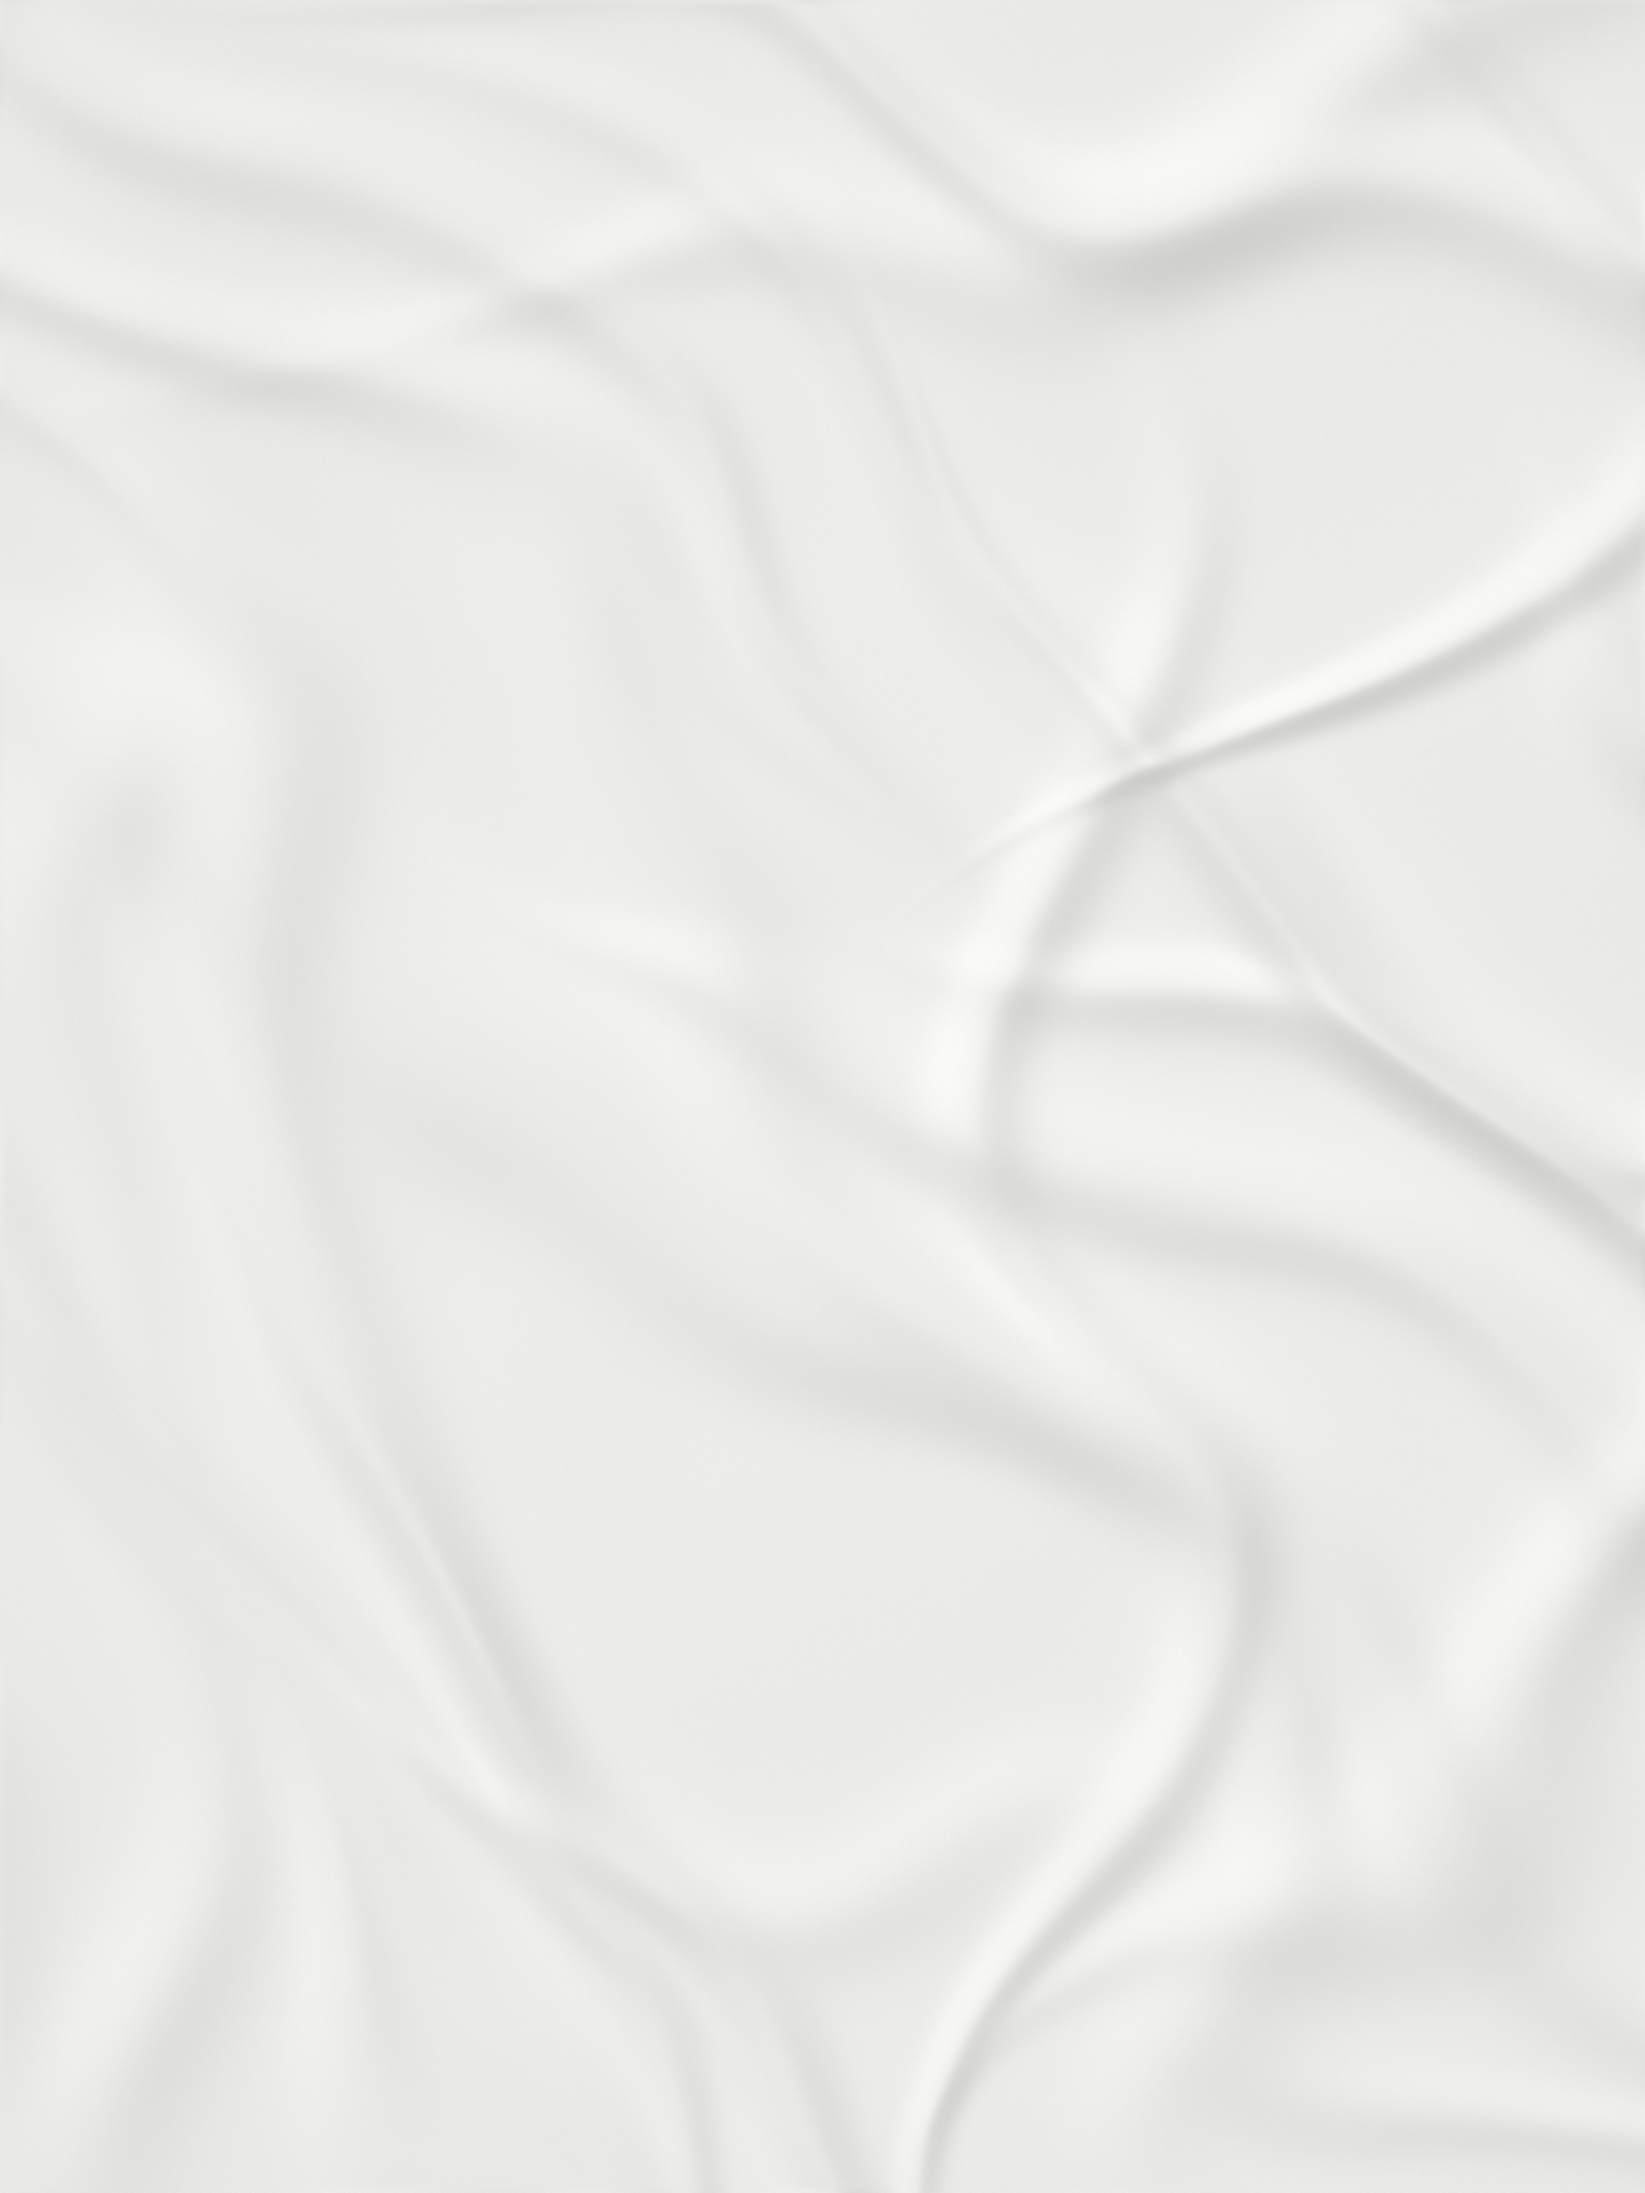
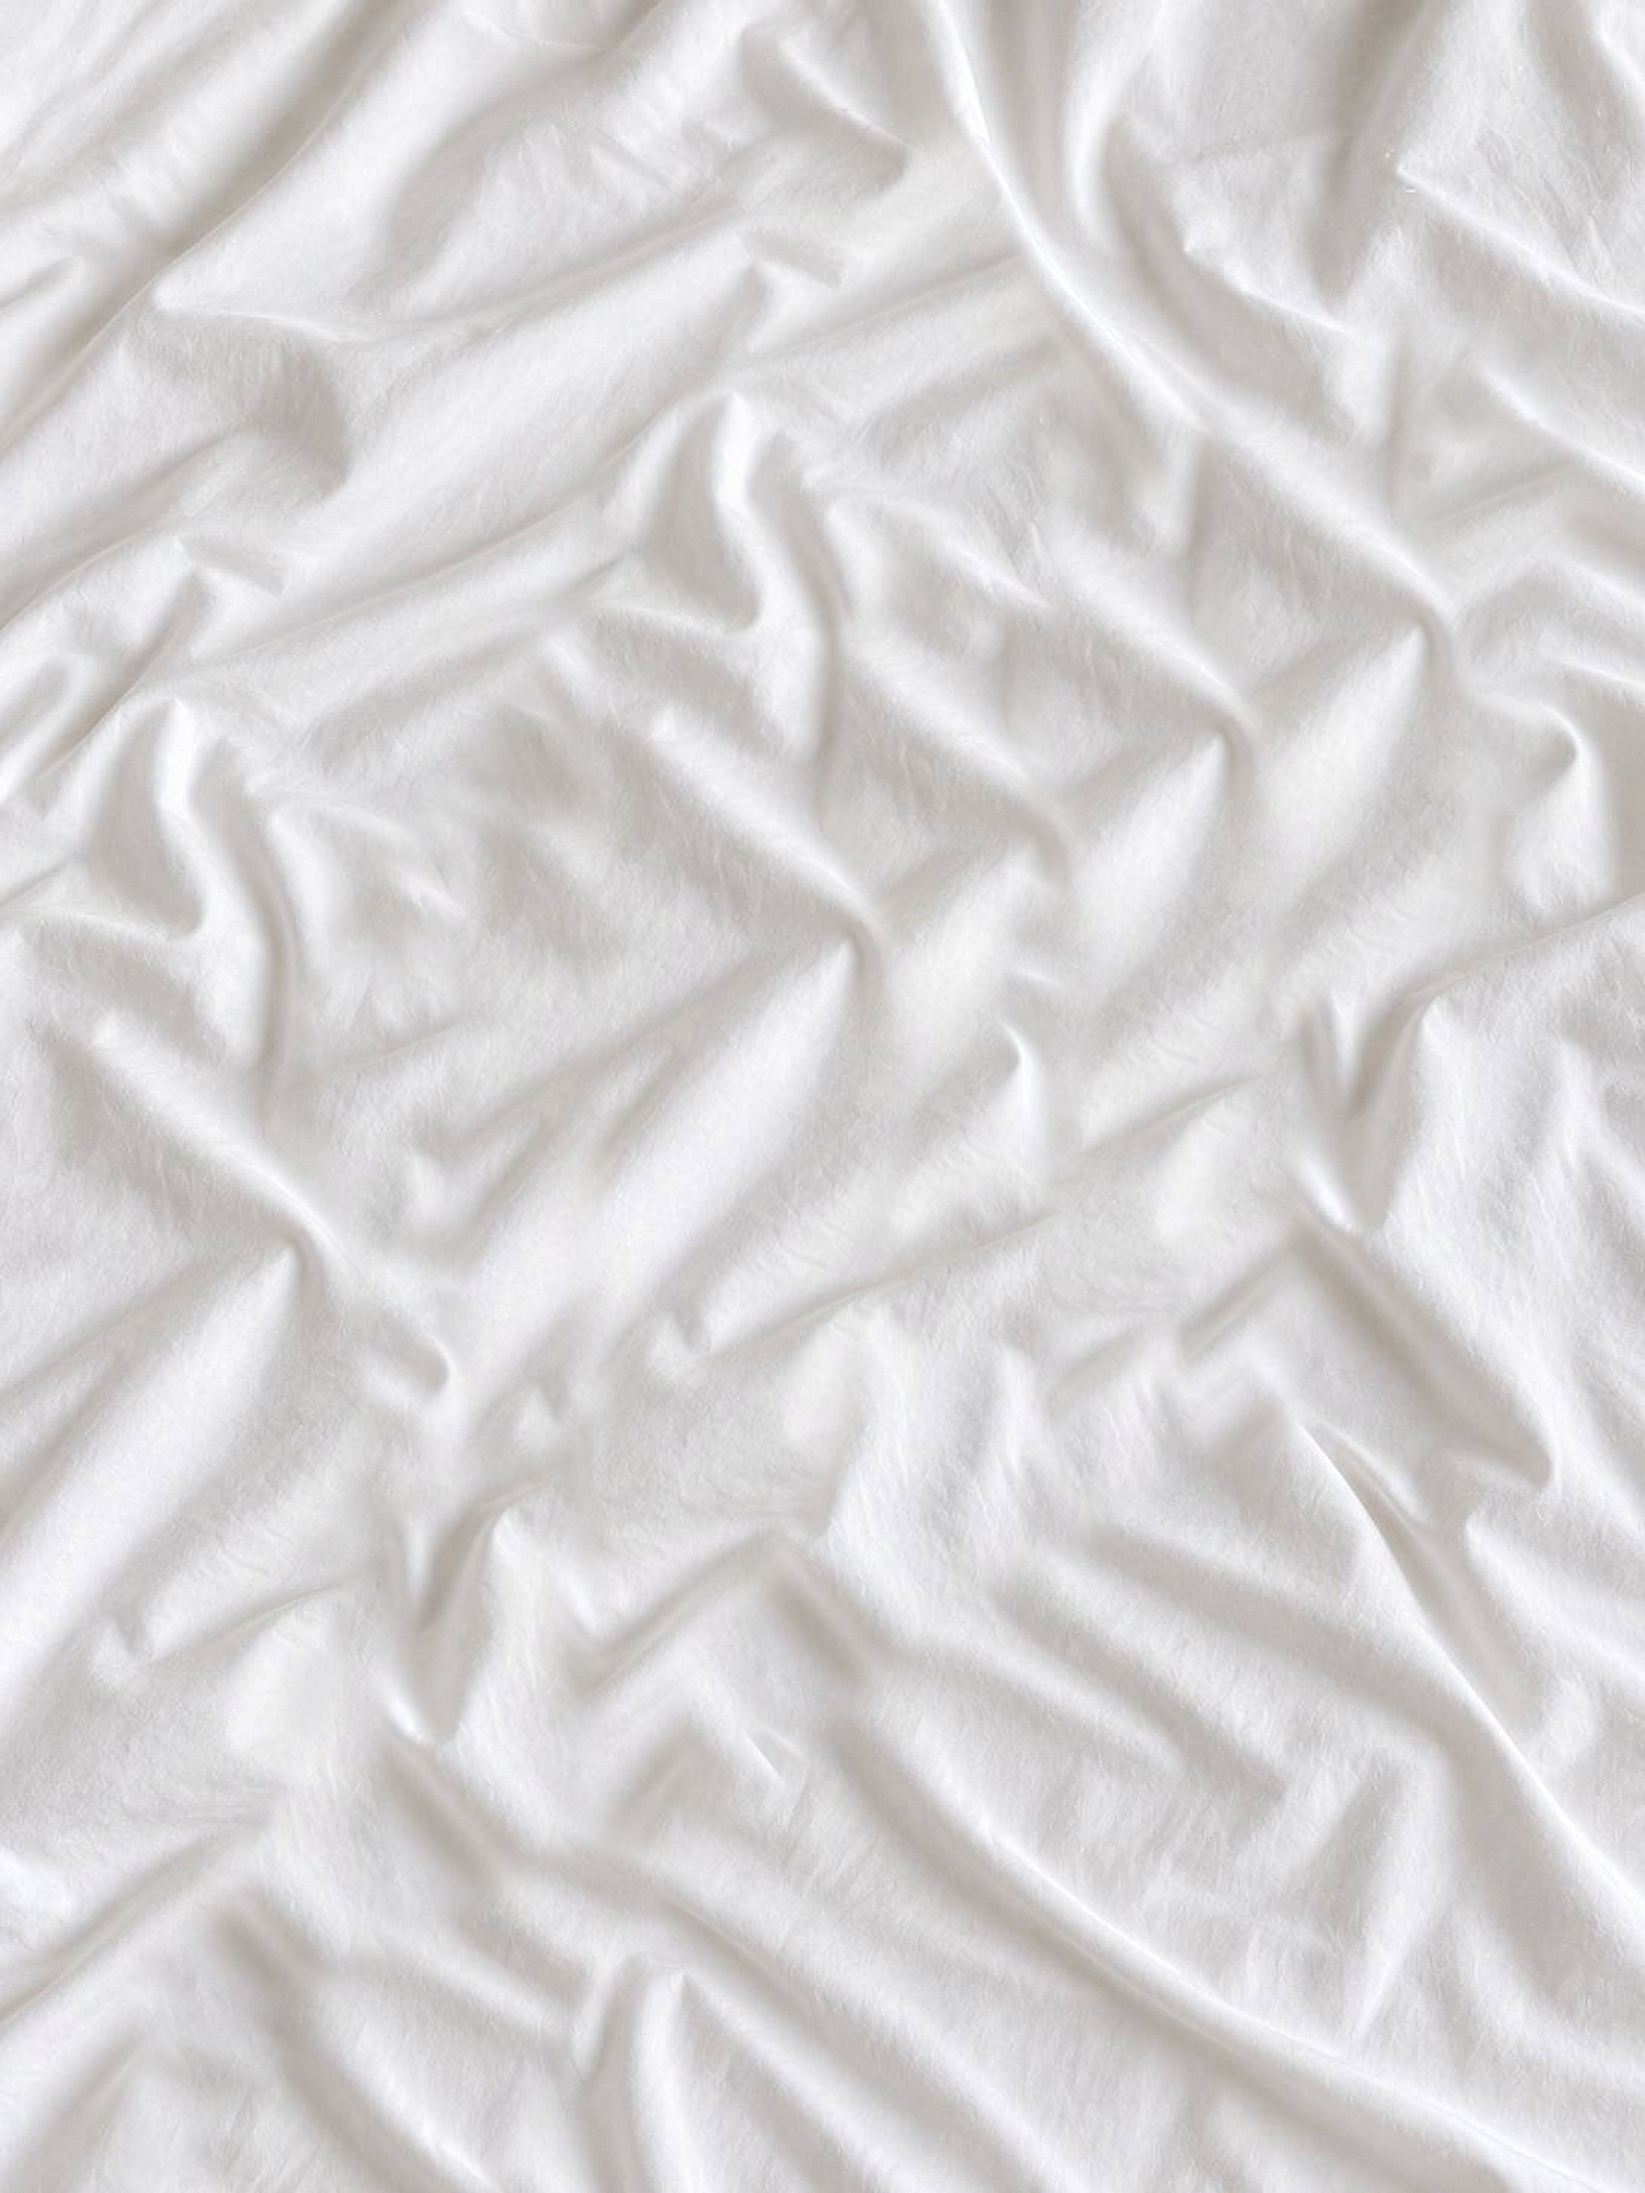
Pegar fotos con Ctrl+V

diff --git a/index.html b/index.html
@@ -50,7 +50,7 @@
 <main>
   <label id="drop">
     <svg viewBox="0 0 24 24" fill="none" stroke-width="1.5" stroke-linecap="round" stroke-linejoin="round"><path d="M12 16V4m0 0-4 4m4-4 4 4M4 16v2a2 2 0 0 0 2 2h12a2 2 0 0 0 2-2v-2"/></svg>
-    <strong>Arrastrá las fotos acá o hacé click</strong>
+    <strong>Arrastrá las fotos acá, hacé click o pegalas con Ctrl+V</strong>
     <span>JPG, PNG o WEBP · todas las que quieras</span>
     <input id="file" type="file" accept="image/*" multiple hidden>
   </label>
@@ -88,6 +88,17 @@ input.onchange = e => { addFiles(e.target.files); input.value = ''; };
 ['dragenter','dragover'].forEach(ev => drop.addEventListener(ev, e => { e.preventDefault(); drop.classList.add('over'); }));
 ['dragleave','drop'].forEach(ev => drop.addEventListener(ev, e => { e.preventDefault(); drop.classList.remove('over'); }));
 drop.addEventListener('drop', e => addFiles(e.dataTransfer.files));
+// Pegar imágenes con Ctrl+V (capturas, imágenes copiadas de WhatsApp, del navegador, etc.)
+document.addEventListener('paste', e => {
+  const files = [...(e.clipboardData?.items || [])]
+    .filter(it => it.kind === 'file' && it.type.startsWith('image/'))
+    .map((it, i) => {
+      const f = it.getAsFile();
+      const ext = (f.type.split('/')[1] || 'png').replace('jpeg', 'jpg');
+      return new File([f], f.name && f.name !== 'image.png' ? f.name : `pegada_${Date.now()}_${i}.${ext}`, { type: f.type });
+    });
+  if (files.length) { e.preventDefault(); addFiles(files); }
+});
 
 function addFiles(files){
   for (const f of files){
@@ -239,7 +250,7 @@ async function refineTransparency(file, fg){
     }
     return dst;
   };
-  bin = morph(morph(bin, 2, false), 2, true);
+  bin = morph(morph(bin, 1, false), 1, true);
   // flood fill del fondo desde los bordes: lo no alcanzado es la prenda (con huecos rellenos)
   const bgc = new Uint8Array(M), q = new Int32Array(M); let qh = 0, qt = 0;
   const push = j => { if (!bin[j] && !bgc[j]) { bgc[j] = 1; q[qt++] = j; } };
@@ -252,12 +263,61 @@ async function refineTransparency(file, fg){
   let region = new Uint8Array(M); for (let j = 0; j < M; j++) region[j] = bgc[j] ? 0 : 1;
   region = morph(region, 3, true);
 
+  // Quedarse solo con la prenda (componente principal), descartando objetos sueltos en los bordes
+  {
+    const lab = new Int32Array(M); let nl = 0; const areas = [0];
+    for (let j0 = 0; j0 < M; j0++) {
+      if (!region[j0] || lab[j0]) continue;
+      nl++; let a = 0; qh = qt = 0; q[qt++] = j0; lab[j0] = nl;
+      while (qh < qt) {
+        const j = q[qh++], xx = j % w; a++;
+        if (xx > 0 && region[j - 1] && !lab[j - 1]) { lab[j - 1] = nl; q[qt++] = j - 1; }
+        if (xx < w - 1 && region[j + 1] && !lab[j + 1]) { lab[j + 1] = nl; q[qt++] = j + 1; }
+        if (j >= w && region[j - w] && !lab[j - w]) { lab[j - w] = nl; q[qt++] = j - w; }
+        if (j < M - w && region[j + w] && !lab[j + w]) { lab[j + w] = nl; q[qt++] = j + w; }
+      }
+      areas.push(a);
+    }
+    const maxA = Math.max(...areas);
+    for (let j = 0; j < M; j++) if (region[j] && areas[lab[j]] < maxA * 0.15) region[j] = 0;
+  }
+
+  // Partes oscuras pegadas a la prenda (broches, elásticos negros): se conservan opacas
+  const lumB = 0.299 * B[0] + 0.587 * B[1] + 0.114 * B[2];
+  const darkThr = lumB * 0.85;
+  const lumS = j => 0.299 * S[j * 4] + 0.587 * S[j * 4 + 1] + 0.114 * S[j * 4 + 2];
+  let darkS = new Uint8Array(M);
+  const nearGarment = morph(region, 6, true);
+  for (let j = 0; j < M; j++) if (lumS(j) < lumB * 0.4) darkS[j] = 1;
+  darkS = morph(morph(darkS, 1, false), 1, true);       // quitar granitos del piso
+  { // descartar manchas oscuras chicas
+    const seen = new Uint8Array(M), minA = M * 0.0004;
+    for (let j0 = 0; j0 < M; j0++) {
+      if (!darkS[j0] || seen[j0]) continue;
+      qh = qt = 0; q[qt++] = j0; seen[j0] = 1;
+      while (qh < qt) {
+        const j = q[qh++], xx = j % w;
+        for (const nb of [xx > 0 ? j - 1 : -1, xx < w - 1 ? j + 1 : -1, j >= w ? j - w : -1, j < M - w ? j + w : -1])
+          if (nb >= 0 && darkS[nb] && !seen[nb]) { seen[nb] = 1; q[qt++] = nb; }
+      }
+      let touches = false; for (let t = 0; t < qt && !touches; t++) if (nearGarment[q[t]]) touches = true;
+      if (qt < minA || !touches) for (let t = 0; t < qt; t++) darkS[q[t]] = 0;
+    }
+  }
+  const darkGate = morph(darkS, 2, true);
+  for (let j = 0; j < M; j++) if (darkGate[j]) region[j] = 1;
+
   // 3) Escalar la región a tamaño completo (suavizada)
   const gi = sx.createImageData(w, h);
   for (let j = 0; j < M; j++) { gi.data[j * 4 + 3] = region[j] * 255; }
   sx.clearRect(0, 0, w, h); sx.putImageData(gi, 0, 0);
   x.clearRect(0, 0, W, H); x.imageSmoothingQuality = 'high'; x.drawImage(sc2, 0, 0, W, H);
   const G = x.getImageData(0, 0, W, H).data;
+  const dg = sx.createImageData(w, h);
+  for (let j = 0; j < M; j++) { dg.data[j * 4 + 3] = darkGate[j] * 255; }
+  sx.clearRect(0, 0, w, h); sx.putImageData(dg, 0, 0);
+  x.clearRect(0, 0, W, H); x.drawImage(sc2, 0, 0, W, H);
+  const DG = x.getImageData(0, 0, W, H).data;
 
   // 4) Umbrales de opacidad
   const hIn = new Uint32Array(443), hOut = new Uint32Array(443); let nIn = 0, nOut = 0;
@@ -271,16 +331,27 @@ async function refineTransparency(file, fg){
   const t0 = Math.max(t1 * 0.15, nOut ? pct(hOut, nOut, 0.97) : 0);
   t1 = Math.max(t1, t0 + 30);
 
-  // 5) Alfa final y "desmezcla" del color del fondo
+  // 5) Alfa final. Las partes opacas quedan con el píxel original intacto;
+  //    en los hilos semitransparentes solo se quita el fondo del brillo, conservando el tono original.
   for (let i = 0; i < N * 4; i += 4) {
     const g = G[i + 3] / 255;
-    if (!g) { P[i + 3] = 0; continue; }
     const r = O[i], gg = O[i + 1], b = O[i + 2];
+    const lum = 0.299 * r + 0.587 * gg + 0.114 * b;
+    const dgv = DG[i + 3] / 255;
+    if (dgv > 0) {                                   // broches / partes negras
+      const da = dgv * Math.min(1, Math.max(0, (darkThr - lum) / (darkThr - lumB * 0.45)));
+      if (da > 0) { P[i] = r; P[i + 1] = gg; P[i + 2] = b; P[i + 3] = 255 * da; continue; }
+    }
+    if (!g) { P[i + 3] = 0; continue; }
     const ca = Math.min(1, Math.max(0, (dist(r, gg, b) - t0) / (t1 - t0)));
     const ma = P[i + 3] / 255;
-    if (ca >= ma && ca > 0.004) {
-      P[i] = B[0] + (r - B[0]) / ca; P[i + 1] = B[1] + (gg - B[1]) / ca; P[i + 2] = B[2] + (b - B[2]) / ca;
-    } else { P[i] = r; P[i + 1] = gg; P[i + 2] = b; }
+    P[i] = r; P[i + 1] = gg; P[i + 2] = b;
+    if (ca < 0.999 && ca >= ma && ca > 0.004 && lum > 1) {
+      const lu = lumB + (lum - lumB) / ca;
+      let f = Math.max(1, lu / lum);
+      const mx = Math.max(r, gg, b) * f; if (mx > 255) f *= 255 / mx;
+      P[i] = r * f; P[i + 1] = gg * f; P[i + 2] = b * f;
+    }
     P[i + 3] = 255 * g * Math.max(ca, ma);
   }
   x.clearRect(0, 0, W, H); x.putImageData(out, 0, 0);
